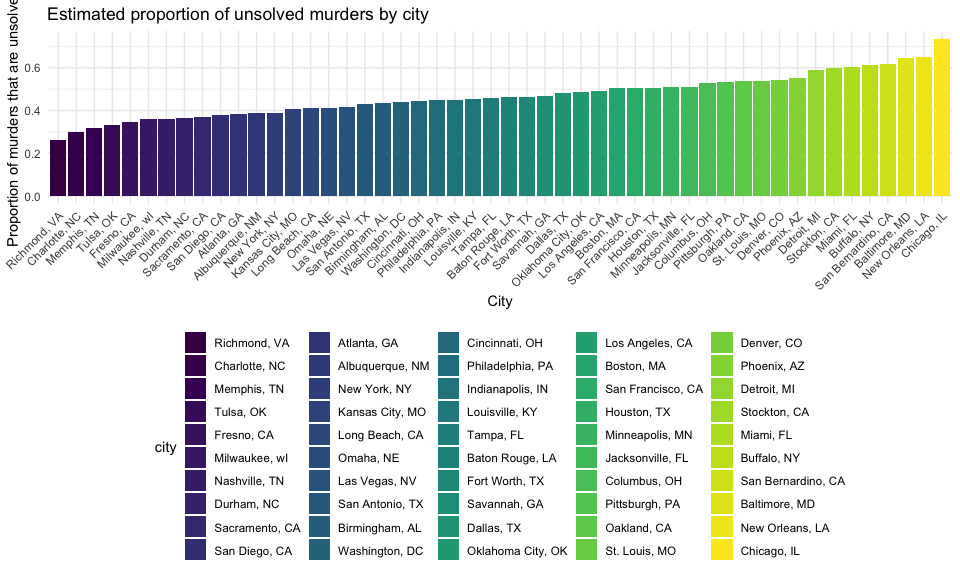
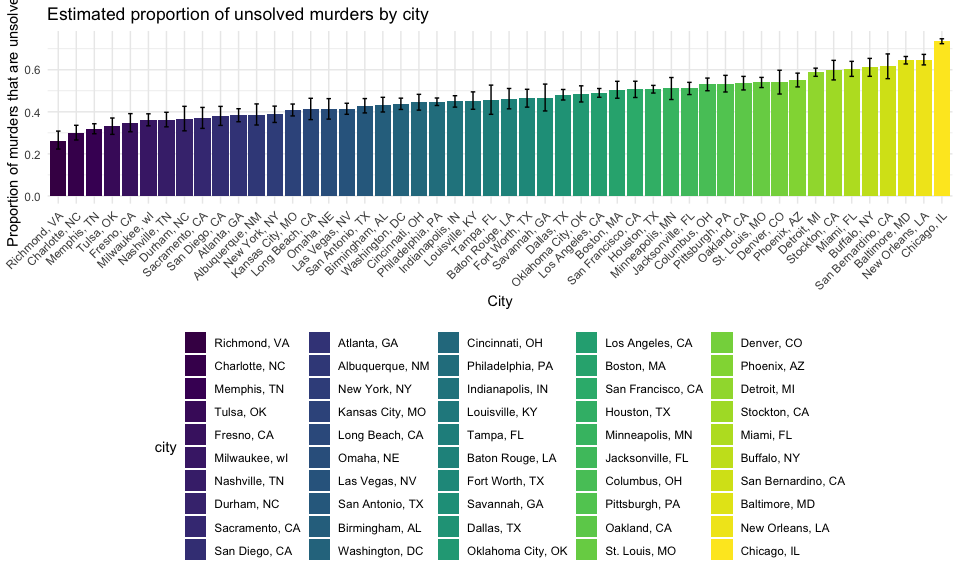
Adding confidence intervals to the visualization

diff --git a/p8105_hw5_crd2162.md b/p8105_hw5_crd2162.md
@@ -236,6 +236,11 @@ unsolved_plot =
   mutate(city = forcats::fct_reorder(city, estimate)) |> 
 ggplot(aes(x = city, y = estimate, fill = city))+
   geom_bar(stat = "identity")+
+   geom_errorbar(
+    aes(ymin = conf.low, ymax = conf.high),
+    position = position_dodge(width = 0.9),
+    width = 0.25
+  ) +
   labs(title = "Estimated proportion of unsolved murders by city", x = "City", y = "Proportion of murders that are unsolved") +
   theme(axis.text.x = element_text(angle = 45, hjust = 1))
 
